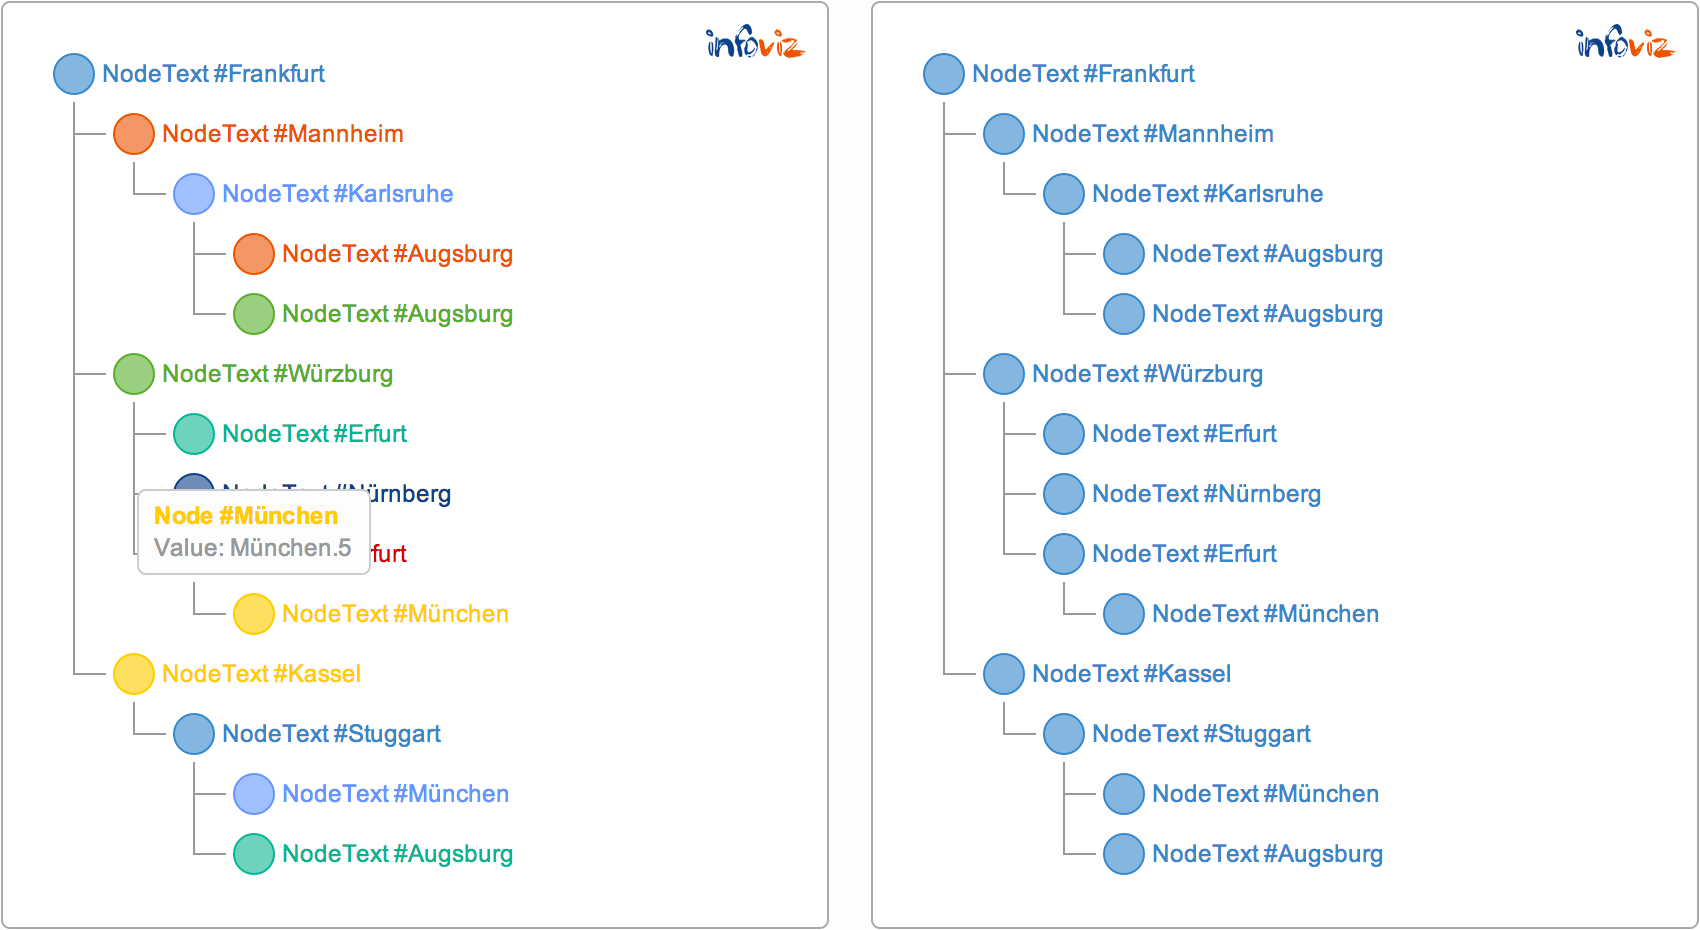
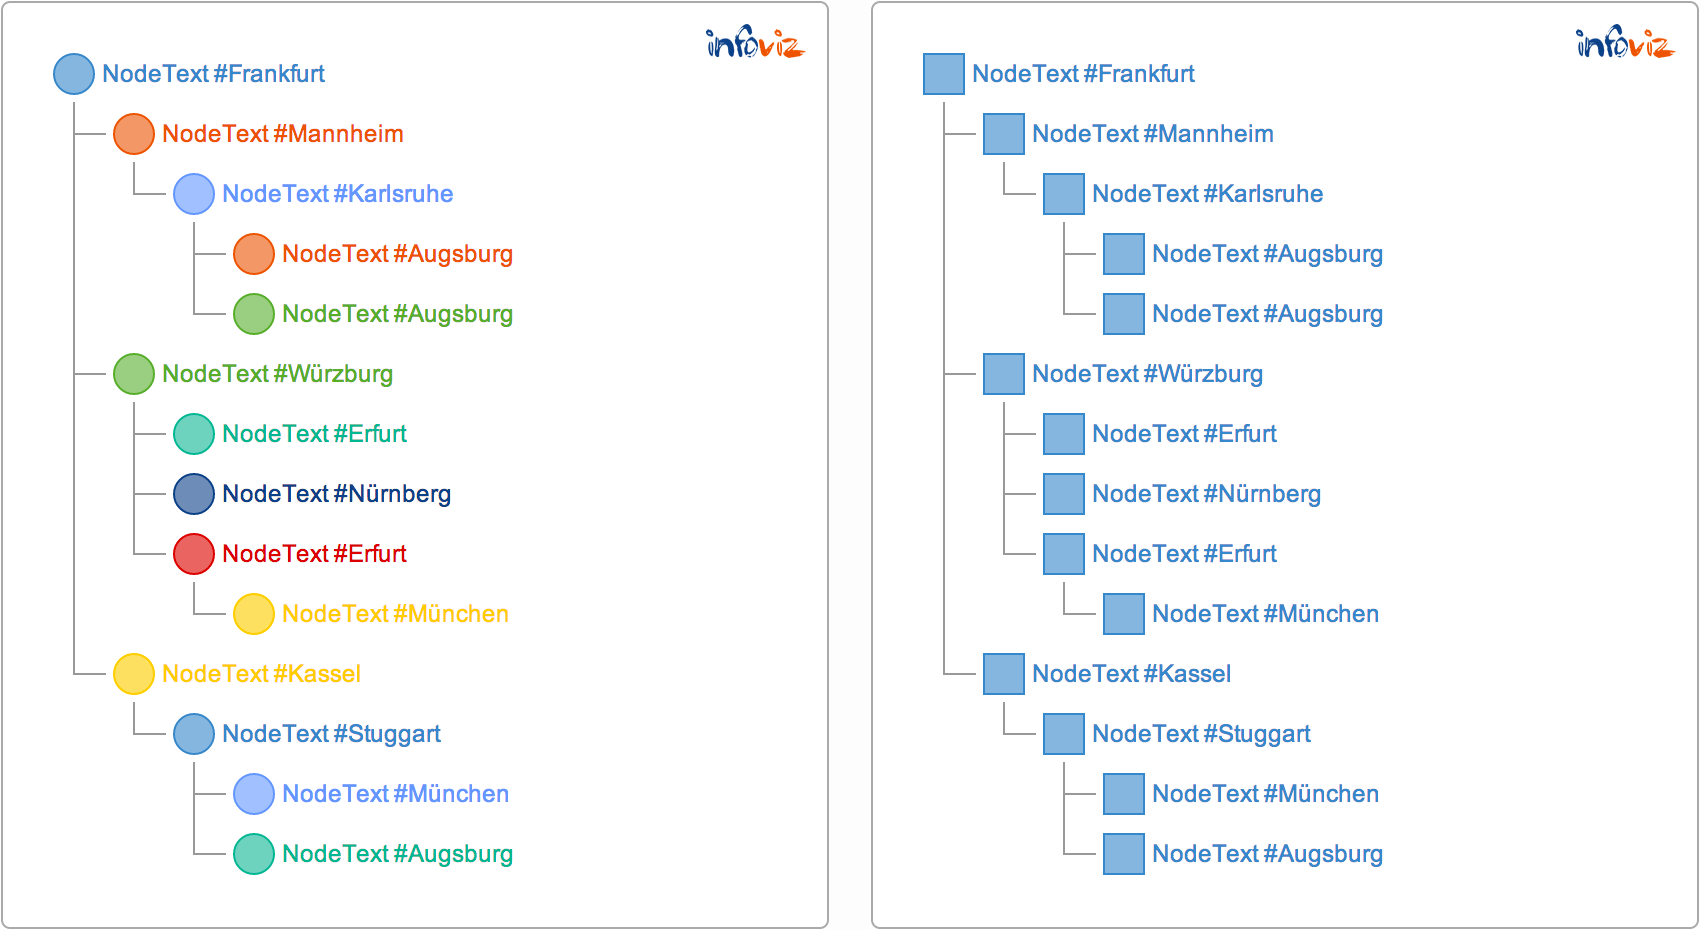
FolderTree now supports configurable node type.

diff --git a/js/infoviz.foldertree.js b/js/infoviz.foldertree.js
@@ -120,6 +120,79 @@ define(function(require, exports, module) {
             var p_node, p_nodes = [], p_label, p_labels = [], index = 0, p_edge;
             var this_node, this_color, this_parent, this_space, this_text;
 
+            var draw_node = function (paper, x, y, size, type, color, thickness) {
+                var node;
+                switch (type) {
+                    default:
+                    case 'circle': {
+                        node = paper.circle(x, y, size).attr({
+                            'fill': color['color'],
+                            'fill-opacity': color['light-alpha'],
+                            'stroke': color['color'],
+                            'stroke-opacity': color['dark-alpha'],
+                            'stroke-width': thickness
+                        }).translate(0.5, 0.5);
+
+                        break;
+                    }
+                    case 'box': {
+                        node = paper.rect(x - size, y - size, size * 2, size * 2).attr({
+                            'fill': color['color'],
+                            'fill-opacity': color['light-alpha'],
+                            'stroke': color['color'],
+                            'stroke-opacity': color['dark-alpha'],
+                            'stroke-width': thickness
+                        }).translate(0.5, 0.5);
+
+                        break;
+                    }
+                    case 'line': {
+                        cache = [];
+                        x -= size;
+                        y -= size;
+                        size = 2 * size;
+
+                        cache.push('M' + x + ',' + (y + size));
+                        cache.push('L' + (x + 2 * size / 5) + ',' + (y + 2 * size / 5));
+                        cache.push('L' + (x + 3 * size / 4) + ',' + (y + 5 * size / 7));
+                        cache.push('L' + (x + size) + ',' + y);
+
+                        node = paper.path(cache.join('')).attr({
+                            'stroke': color['color'],
+                            'stroke-opacity': color['dark-alpha'],
+                            'stroke-width': thickness
+                        }).translate(0.5, 0.5);
+
+                        break;
+                    }
+                    case 'area': {
+                        cache = [];
+                        x -= size;
+                        y -= size;
+                        size = 2 * size;
+
+                        cache.push('M' + x + ',' + (y + size));
+                        cache.push('L' + (x + 2 * size / 5) + ',' + (y + 2 * size / 5));
+                        cache.push('L' + (x + 3 * size / 4) + ',' + (y + 5 * size / 7));
+                        cache.push('L' + (x + size) + ',' + y);
+                        cache.push('L' + (x + size) + ',' + + (y + size));
+                        cache.push('Z');
+
+                        node = paper.path(cache.join('')).attr({
+                            'fill': color['color'],
+                            'fill-opacity': color['light-alpha'],
+                            'stroke': color['color'],
+                            'stroke-opacity': color['dark-alpha'],
+                            'stroke-width': thickness
+                        }).translate(0.5, 0.5);
+
+                        break;
+                    }
+                }
+
+                return node;
+            };
+
             for (i = 0; i < level_map.length; ++i) {
                 for (j = 0; j < level_map[i]['nodes'].length; ++j) {
                     this_node = dict[level_map[i]['nodes'][j]];
@@ -129,12 +202,7 @@ define(function(require, exports, module) {
                         x = zx + node_size / 2;
                         y = zy + node_size / 2;
 
-                        p_node = paper.circle(x, y, node_size).attr({
-                            'stroke-width': options['foldertree']['node-border-width'],
-                            'stroke': this_color['color'],
-                            'fill': this_color['color'],
-                            'fill-opacity': this_color['light-alpha']
-                        }).translate(0.5, 0.5);
+                        p_node = draw_node(paper, x, y, node_size, options['foldertree']['node-type'], this_color, options['foldertree']['node-border-width']);
                         p_nodes.push(p_node);
 
                         dict[set[0]['_id']]['_x'] = x;
@@ -148,12 +216,7 @@ define(function(require, exports, module) {
                         y = this_parent['_current'];
 
                         // node
-                        p_node = paper.circle(x, y, node_size).attr({
-                            'stroke-width': options['foldertree']['node-border-width'],
-                            'stroke': this_color['color'],
-                            'fill': this_color['color'],
-                            'fill-opacity': this_color['light-alpha']
-                        }).translate(0.5, 0.5);
+                        p_node = draw_node(paper, x, y, node_size, options['foldertree']['node-type'], this_color, options['foldertree']['node-border-width']);
                         p_nodes.push(p_node);
 
                         this_parent['_current'] += this_space + options['foldertree']['vertical-spacing'];

diff --git a/js/infoviz.js b/js/infoviz.js
@@ -498,6 +498,7 @@ define(function(require, exports, module) {
 
             'node-border-width': 1,             // border thickness of tree nodes
             'node-type': 'circle',              // visual style of tree nodes
+                                                // [ 'circle', 'box', 'line', 'area' ]
             'node-size': 10,                    // radius of tree nodes
             'node-label-spacing': 4,            // tree node label margin
             'node-label-size': 12,              // tree node label font size

diff --git a/index.html b/index.html
@@ -881,6 +881,7 @@
                             }
                         },
                         {
+                        	'foldertree': { 'node-type': 'box' },
                         	'color': [
                                 { 'color': '#3A89C9', 'dark-alpha': 1, 'light-alpha': 0.6 },
                                 { 'color': '#3A89C9', 'dark-alpha': 1, 'light-alpha': 0.6 },

diff --git a/README.md b/README.md
@@ -1506,6 +1506,7 @@ When you using InfoViz.chart to create a chart, you may pass in your option obje
 
             'node-border-width': 1,             // border thickness of tree nodes
             'node-type': 'circle',              // visual style of tree nodes
+                                                // [ 'circle', 'box', 'line', 'area' ]
             'node-size': 10,                    // radius of tree nodes
             'node-label-spacing': 4,            // tree node label margin
             'node-label-size': 12,              // tree node label font size
